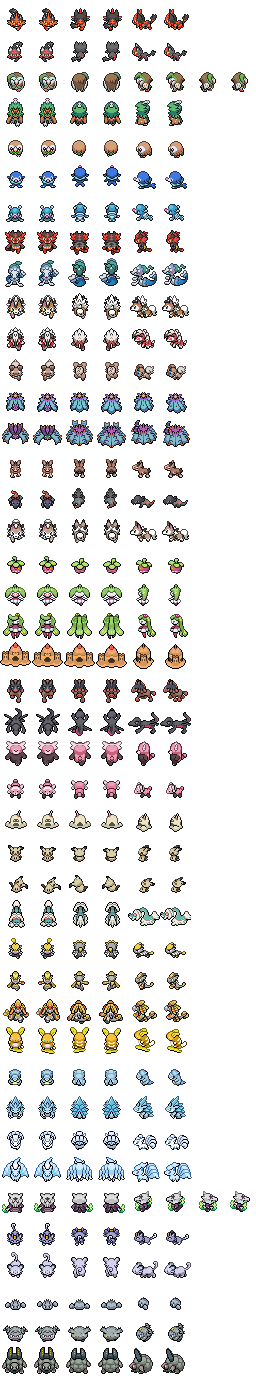
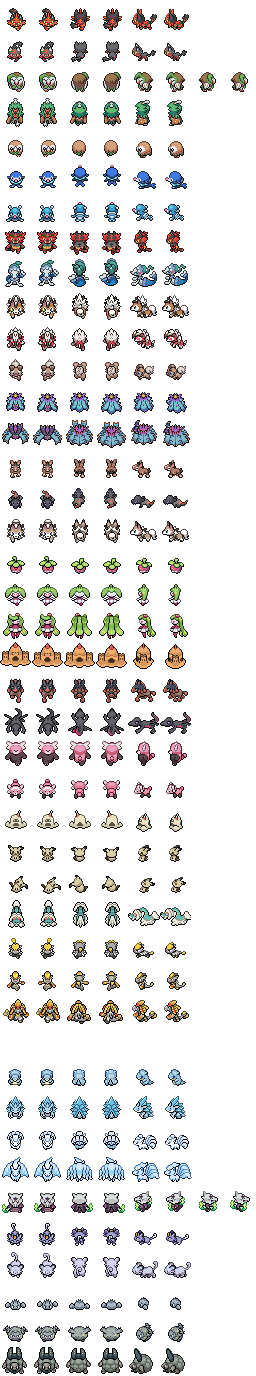
A-Raichu y arreglado bug de storage

diff --git a/src/data/pokemon_graphics/front_pic_anims.h b/src/data/pokemon_graphics/front_pic_anims.h
@@ -278,8 +278,31 @@ static const union AnimCmd sAnim_Raticate_1[] =
 };
 
 #if P_ALOLAN_FORMS
-PLACEHOLDER_ANIM_SINGLE_FRAME(RattataAlolan);
-PLACEHOLDER_ANIM_SINGLE_FRAME(RaticateAlolan);
+static const union AnimCmd sAnim_RattataAlolan_1[] =
+{
+    ANIMCMD_FRAME(1, 11),
+    ANIMCMD_FRAME(0, 11),
+    ANIMCMD_FRAME(1, 11),
+    ANIMCMD_FRAME(0, 1),
+    ANIMCMD_END,
+};
+
+static const union AnimCmd sAnim_RaticateAlolan_1[] =
+{
+    ANIMCMD_FRAME(1, 5),
+    ANIMCMD_FRAME(0, 5),
+    ANIMCMD_FRAME(1, 5),
+    ANIMCMD_FRAME(0, 5),
+    ANIMCMD_FRAME(1, 5),
+    ANIMCMD_FRAME(0, 5),
+    ANIMCMD_FRAME(1, 5),
+    ANIMCMD_FRAME(0, 5),
+    ANIMCMD_FRAME(1, 5),
+    ANIMCMD_FRAME(0, 5),
+    ANIMCMD_FRAME(1, 5),
+    ANIMCMD_FRAME(0, 5),
+    ANIMCMD_END,
+};
 #endif //P_ALOLAN_FORMS
 #endif //P_FAMILY_RATTATA
 
@@ -350,29 +373,6 @@ static const union AnimCmd sAnim_Pikachu_1[] =
     ANIMCMD_END,
 };
 
-#if P_COSPLAY_PIKACHU_FORMS
-PLACEHOLDER_ANIM_SINGLE_FRAME(PikachuCosplay);
-PLACEHOLDER_ANIM_SINGLE_FRAME(PikachuRockStar);
-PLACEHOLDER_ANIM_SINGLE_FRAME(PikachuBelle);
-PLACEHOLDER_ANIM_SINGLE_FRAME(PikachuPopStar);
-PLACEHOLDER_ANIM_SINGLE_FRAME(PikachuPhD);
-PLACEHOLDER_ANIM_SINGLE_FRAME(PikachuLibre);
-#endif //P_COSPLAY_PIKACHU_FORMS
-#if P_CAP_PIKACHU_FORMS
-PLACEHOLDER_ANIM_SINGLE_FRAME(PikachuOriginalCap);
-PLACEHOLDER_ANIM_SINGLE_FRAME(PikachuHoennCap);
-PLACEHOLDER_ANIM_SINGLE_FRAME(PikachuSinnohCap);
-PLACEHOLDER_ANIM_SINGLE_FRAME(PikachuUnovaCap);
-PLACEHOLDER_ANIM_SINGLE_FRAME(PikachuKalosCap);
-PLACEHOLDER_ANIM_SINGLE_FRAME(PikachuAlolaCap);
-PLACEHOLDER_ANIM_SINGLE_FRAME(PikachuPartnerCap);
-PLACEHOLDER_ANIM_SINGLE_FRAME(PikachuWorldCap);
-#endif //P_CAP_PIKACHU_FORMS
-
-#if P_GIGANTAMAX_FORMS
-PLACEHOLDER_ANIM_SINGLE_FRAME(PikachuGigantamax);
-#endif //P_GIGANTAMAX_FORMS
-
 static const union AnimCmd sAnim_Raichu_1[] =
 {
     ANIMCMD_FRAME(0, 15),
@@ -384,7 +384,15 @@ static const union AnimCmd sAnim_Raichu_1[] =
 };
 
 #if P_ALOLAN_FORMS
-PLACEHOLDER_ANIM_SINGLE_FRAME(RaichuAlolan);
+static const union AnimCmd sAnim_RaichuAlolan_1[] =
+{
+    ANIMCMD_FRAME(0, 15),
+    ANIMCMD_FRAME(1, 20),
+    ANIMCMD_FRAME(0, 15),
+    ANIMCMD_FRAME(1, 20),
+    ANIMCMD_FRAME(0, 15),
+    ANIMCMD_END,
+};
 #endif //P_ALOLAN_FORMS
 #endif //P_FAMILY_PIKACHU
 
@@ -866,7 +874,17 @@ static const union AnimCmd sAnim_Primeape_1[] =
 };
 
 #if P_GEN_9_CROSS_EVOS
-PLACEHOLDER_ANIM_SINGLE_FRAME(Annihilape);
+static const union AnimCmd sAnim_Annihilape_1[] =
+{
+    ANIMCMD_FRAME(0, 14),
+    ANIMCMD_FRAME(1, 14),
+    ANIMCMD_FRAME(0, 14),
+    ANIMCMD_FRAME(1, 14),
+    ANIMCMD_FRAME(0, 14),
+    ANIMCMD_FRAME(1, 10),
+    ANIMCMD_FRAME(0, 1),
+    ANIMCMD_END,
+};
 #endif //P_GEN_9_CROSS_EVOS
 #endif //P_FAMILY_MANKEY
 
@@ -10213,27 +10231,6 @@ SINGLE_ANIMATION(Arbok);
 SINGLE_ANIMATION(Pichu);
 #endif //P_GEN_2_CROSS_EVOS
 SINGLE_ANIMATION(Pikachu);
-#if P_COSPLAY_PIKACHU_FORMS
-SINGLE_ANIMATION(PikachuCosplay);
-SINGLE_ANIMATION(PikachuRockStar);
-SINGLE_ANIMATION(PikachuBelle);
-SINGLE_ANIMATION(PikachuPopStar);
-SINGLE_ANIMATION(PikachuPhD);
-SINGLE_ANIMATION(PikachuLibre);
-#endif //P_COSPLAY_PIKACHU_FORMS
-#if P_CAP_PIKACHU_FORMS
-SINGLE_ANIMATION(PikachuOriginalCap);
-SINGLE_ANIMATION(PikachuHoennCap);
-SINGLE_ANIMATION(PikachuSinnohCap);
-SINGLE_ANIMATION(PikachuUnovaCap);
-SINGLE_ANIMATION(PikachuKalosCap);
-SINGLE_ANIMATION(PikachuAlolaCap);
-SINGLE_ANIMATION(PikachuPartnerCap);
-SINGLE_ANIMATION(PikachuWorldCap);
-#endif //P_CAP_PIKACHU_FORMS
-#if P_GIGANTAMAX_FORMS
-SINGLE_ANIMATION(PikachuGigantamax);
-#endif //P_GIGANTAMAX_FORMS
 SINGLE_ANIMATION(Raichu);
 #if P_ALOLAN_FORMS
 SINGLE_ANIMATION(RaichuAlolan);

diff --git a/src/pokemon_storage_system.c b/src/pokemon_storage_system.c
@@ -410,6 +410,7 @@ struct PokemonStorageSystemData
     u8 cursorPalNums[2];
     const u32 *displayMonPalette;
     u32 displayMonPersonality;
+    bool8 displayMonIsShiny;
     u16 displayMonSpecies;
     u16 displayMonItemId;
     bool8 setMosaic;
@@ -3687,7 +3688,7 @@ static void LoadDisplayMonGfx(u16 species, u32 pid)
         LoadSpecialPokePic(sStorage->tileBuffer, species, pid, TRUE);
         CpuFastCopy(sStorage->tileBuffer, sStorage->displayMonTilePtr, MON_PIC_SIZE);
         LoadCompressedPaletteFast(sStorage->displayMonPalette, sStorage->displayMonPalOffset, PLTT_SIZE_4BPP);
-        UniquePaletteByPersonality(sStorage->displayMonPalOffset, species, 0, pid); //Funciona (en primera pantalla de equipo)
+        UniquePaletteByPersonality(sStorage->displayMonPalOffset, species, sStorage->displayMonIsShiny, pid); //*
         CpuFastCopy(&gPlttBufferFaded[sStorage->displayMonPalOffset], &gPlttBufferUnfaded[sStorage->displayMonPalOffset], PLTT_SIZE_4BPP);
         sStorage->displayMonSprite->invisible = FALSE;
     }
@@ -4163,7 +4164,7 @@ static void SetBoxMonDynamicPalette(u8 boxId, u8 position)
         else
         {
             LZ77UnCompWram(palette, &sPaletteSwapBuffer[PLTT_ID(position)]);
-            UniquePaletteBuffered(&sPaletteSwapBuffer[PLTT_ID(position)], species, GetMonData((struct Pokemon *)&gPokemonStoragePtr->boxes[boxId][position], MON_DATA_PERSONALITY), IsMonShiny((struct Pokemon *)&gPokemonStoragePtr->boxes[boxId][position]));
+            UniquePaletteBuffered(&sPaletteSwapBuffer[PLTT_ID(position)], species, GetMonData(mon, MON_DATA_PERSONALITY), IsMonShiny(mon));
         }
     }
     sStorage->boxMonsSprites[position]->oam.paletteNum = ((position / 6) & 1 ? 6 : 0) + (position % 6) + 1;
@@ -6409,6 +6410,7 @@ static void SetDisplayMonData(void *pokemon, u8 mode)
             StringGet_Nickname(sStorage->displayMonName);
             sStorage->displayMonLevel = GetMonData(mon, MON_DATA_LEVEL);
             sStorage->displayMonPersonality = GetMonData(mon, MON_DATA_PERSONALITY);
+            sStorage->displayMonIsShiny = GetMonData(mon, MON_DATA_IS_SHINY);
             sStorage->displayMonPalette = GetMonFrontSpritePal(mon);
             gender = GetMonGender(mon);
             sStorage->displayMonItemId = GetMonData(mon, MON_DATA_HELD_ITEM);
@@ -6436,6 +6438,7 @@ static void SetDisplayMonData(void *pokemon, u8 mode)
             StringGet_Nickname(sStorage->displayMonName);
             sStorage->displayMonLevel = GetLevelFromBoxMonExp(boxMon);
             sStorage->displayMonPersonality = GetBoxMonData(boxMon, MON_DATA_PERSONALITY);
+            sStorage->displayMonIsShiny = GetBoxMonData(boxMon, MON_DATA_IS_SHINY);
             sStorage->displayMonPalette = GetMonSpritePalFromSpeciesAndPersonality(sStorage->displayMonSpecies, isShiny, sStorage->displayMonPersonality); //*
             gender = GetGenderFromSpeciesAndPersonality(sStorage->displayMonSpecies, sStorage->displayMonPersonality);
             sStorage->displayMonItemId = GetBoxMonData(boxMon, MON_DATA_HELD_ITEM);

diff --git a/src/data/pokemon/species_info/gen_1.h b/src/data/pokemon/species_info/gen_1.h
@@ -1191,10 +1191,10 @@ const struct SpeciesInfo gSpeciesInfoGen1[] =
         FRONT_PIC(RattataAlolan, 40, 48),
         .frontPicYOffset = 11,
         .frontAnimFrames = sAnims_RattataAlolan,
-        //.frontAnimId = ANIM_V_SQUISH_AND_BOUNCE,
+        .frontAnimId = ANIM_V_SQUISH_AND_BOUNCE,
         BACK_PIC(RattataAlolan, 64, 56),
         .backPicYOffset = 7,
-        //.backAnimId = BACK_ANIM_NONE,
+        .backAnimId = BACK_ANIM_H_SHAKE,
         PALETTES(RattataAlolan),
         ICON(RattataAlolan, 2),
         FOLLOWER(RattataAlolan, SIZE_32x32, SHADOW_SIZE_M, TRACKS_FOOT)
@@ -1230,10 +1230,10 @@ const struct SpeciesInfo gSpeciesInfoGen1[] =
         FRONT_PIC(RaticateAlolan, 56, 48),
         .frontPicYOffset = 8,
         .frontAnimFrames = sAnims_RaticateAlolan,
-        //.frontAnimId = ANIM_V_SQUISH_AND_BOUNCE,
+        .frontAnimId = ANIM_V_SQUISH_AND_BOUNCE,
         BACK_PIC(RaticateAlolan, 64, 48),
         .backPicYOffset = 8,
-        //.backAnimId = BACK_ANIM_NONE,
+        .backAnimId = BACK_ANIM_H_SHAKE,
         PALETTES(RaticateAlolan),
         ICON(RaticateAlolan, 2),
         FOLLOWER(RaticateAlolan, SIZE_32x32, SHADOW_SIZE_M, TRACKS_FOOT)
@@ -1663,11 +1663,11 @@ const struct SpeciesInfo gSpeciesInfoGen1[] =
         FRONT_PIC(RaichuAlolan, 64, 64),
         .frontPicYOffset = 0,
         .frontAnimFrames = sAnims_RaichuAlolan,
-        //.frontAnimId = ANIM_V_SQUISH_AND_BOUNCE,
+        .frontAnimId = ANIM_ROTATE_TO_SIDES,
         .enemyMonElevation = 4,
         BACK_PIC(RaichuAlolan, 56, 56),
         .backPicYOffset = 6,
-        //.backAnimId = BACK_ANIM_NONE,
+        .backAnimId = BACK_ANIM_SHAKE_FLASH_YELLOW,
         PALETTES(RaichuAlolan),
         ICON(RaichuAlolan, 2),
         FOLLOWER(RaichuAlolan, SIZE_32x32, SHADOW_SIZE_M, TRACKS_FOOT)
@@ -3972,7 +3972,6 @@ const struct SpeciesInfo gSpeciesInfoGen1[] =
         .backAnimId = BACK_ANIM_CONCAVE_ARC_LARGE,
         PALETTES(Primeape),
         ICON(Primeape, 2),
-        FOOTPRINT(Primeape)
         FOLLOWER(Primeape, SIZE_32x32, SHADOW_SIZE_M, TRACKS_FOOT)
         LEARNSETS(Primeape),
         .evolutions = EVOLUTION({EVO_LEVEL_MOVE_TWENTY_TIMES, MOVE_RAGE_FIST, SPECIES_ANNIHILAPE}),
@@ -4016,13 +4015,13 @@ const struct SpeciesInfo gSpeciesInfoGen1[] =
         FRONT_PIC(Annihilape, 64, 64),
         .frontPicYOffset = 0,
         .frontAnimFrames = sAnims_Annihilape,
-        //.frontAnimId = ANIM_V_SQUISH_AND_BOUNCE,
+        .frontAnimId = ANIM_GLOW_PURPLE,
         BACK_PIC(Annihilape, 64, 64),
         .backPicYOffset = 1,
-        //.backAnimId = BACK_ANIM_NONE,
+        .backAnimId = BACK_ANIM_SHAKE_GLOW_BLUE,
         PALETTES(Annihilape),
         ICON(Annihilape, 0),
-        //FOOTPRINT(Annihilape)
+        FOLLOWER(Annihilape, SIZE_32x32, SHADOW_SIZE_M, TRACKS_FOOT)
         LEARNSETS(Annihilape),
     },
 #endif //P_GEN_9_CROSS_EVOS

diff --git a/src/pokemon_animation.c b/src/pokemon_animation.c
@@ -247,7 +247,7 @@ static void (* const sMonAnimFunctions[])(struct Sprite *sprite) =
     [ANIM_V_SLIDE]                           = Anim_VerticalSlide,
     [ANIM_BOUNCE_ROTATE_TO_SIDES]            = Anim_BounceRotateToSides,
     [ANIM_V_JUMPS_H_JUMPS]                   = Anim_VerticalJumpsHorizontalJumps,
-    [ANIM_ROTATE_TO_SIDES]                   = Anim_RotateToSides, // Unused
+    [ANIM_ROTATE_TO_SIDES]                   = Anim_RotateToSides,
     [ANIM_ROTATE_TO_SIDES_TWICE]             = Anim_RotateToSides_Twice,
     [ANIM_GROW_VIBRATE]                      = Anim_GrowVibrate,
     [ANIM_ZIGZAG_FAST]                       = Anim_ZigzagFast,
@@ -276,7 +276,7 @@ static void (* const sMonAnimFunctions[])(struct Sprite *sprite) =
     [ANIM_GLOW_RED]                          = Anim_GlowRed, // Unused
     [ANIM_GLOW_BLUE]                         = Anim_GlowBlue,
     [ANIM_GLOW_YELLOW]                       = Anim_GlowYellow, // Unused
-    [ANIM_GLOW_PURPLE]                       = Anim_GlowPurple, // Unused
+    [ANIM_GLOW_PURPLE]                       = Anim_GlowPurple,
     [ANIM_BACK_AND_LUNGE]                    = Anim_BackAndLunge,
     [ANIM_BACK_FLIP]                         = Anim_BackFlip, // Unused
     [ANIM_FLICKER]                           = Anim_Flicker, // Unused
@@ -294,9 +294,9 @@ static void (* const sMonAnimFunctions[])(struct Sprite *sprite) =
     [ANIM_ROTATE_TO_SIDES_FAST]              = Anim_RotateToSides_Fast, // Unused
     [ANIM_ROTATE_UP_TO_SIDES]                = Anim_RotateUpToSides,
     [ANIM_FLICKER_INCREASING]                = Anim_FlickerIncreasing,
-    [ANIM_TIP_HOP_FORWARD]                   = Anim_TipHopForward, // Unused
+    [ANIM_TIP_HOP_FORWARD]                   = Anim_TipHopForward, //Unused
     [ANIM_PIVOT_SHAKE]                       = Anim_PivotShake, // Unused
-    [ANIM_TIP_AND_SHAKE]                     = Anim_TipAndShake, // Unused
+    [ANIM_TIP_AND_SHAKE]                     = Anim_TipAndShake, //Unused
     [ANIM_VIBRATE_TO_CORNERS]                = Anim_VibrateToCorners, // Unused
     [ANIM_GROW_IN_STAGES]                    = Anim_GrowInStages,
     [ANIM_V_SPRING]                          = Anim_VerticalSpring, // Unused

diff --git a/src/data/graphics/pokemon.h b/src/data/graphics/pokemon.h
@@ -278,6 +278,7 @@ const u8 gMonIcon_QuestionMark[] = INCBIN_U8("graphics/pokemon/question_mark/ico
 #endif //P_FOLLOWERS
 
     const u32 gMonFrontPic_Raichu[] = INCBIN_U32("graphics/pokemon/raichu/anim_front.4bpp.lz");
+    const u32 gMonFrontPic_RaichuF[] = INCBIN_U32("graphics/pokemon/raichu/anim_frontf.4bpp.lz");
     const u32 gMonPalette_Raichu[] = INCBIN_U32("graphics/pokemon/raichu/normal.gbapal.lz");
     const u32 gMonBackPic_Raichu[] = INCBIN_U32("graphics/pokemon/raichu/back.4bpp.lz");
     const u32 gMonShinyPalette_Raichu[] = INCBIN_U32("graphics/pokemon/raichu/shiny.gbapal.lz");
@@ -286,10 +287,8 @@ const u8 gMonIcon_QuestionMark[] = INCBIN_U8("graphics/pokemon/question_mark/ico
     const u32 gObjectEventPic_RaichuF[] = INCBIN_COMP("graphics/pokemon/raichu/followerf.4bpp");
 #endif //P_FOLLOWERS
 
-    const u32 gMonFrontPic_RaichuF[] = INCBIN_U32("graphics/pokemon/raichu/anim_frontf.4bpp.lz");
-
 #if P_ALOLAN_FORMS
-    const u32 gMonFrontPic_RaichuAlolan[] = INCBIN_U32("graphics/pokemon/raichu/alolan/front.4bpp.lz");
+    const u32 gMonFrontPic_RaichuAlolan[] = INCBIN_U32("graphics/pokemon/raichu/alolan/anim_front.4bpp.lz");
     const u32 gMonPalette_RaichuAlolan[] = INCBIN_U32("graphics/pokemon/raichu/alolan/normal.gbapal.lz");
     const u32 gMonBackPic_RaichuAlolan[] = INCBIN_U32("graphics/pokemon/raichu/alolan/back.4bpp.lz");
     const u32 gMonShinyPalette_RaichuAlolan[] = INCBIN_U32("graphics/pokemon/raichu/alolan/shiny.gbapal.lz");

diff --git a/include/pokemon_storage_system.h b/include/pokemon_storage_system.h
@@ -7,15 +7,6 @@
 #define IN_BOX_COUNT            (IN_BOX_ROWS * IN_BOX_COLUMNS)
 #define BOX_NAME_LENGTH         8
 
-/*
-            COLUMNS
-ROWS        0   1   2   3   4   5
-            6   7   8   9   10  11
-            12  13  14  15  16  17
-            18  19  20  21  22  23
-            24  25  26  27  28  29
-*/
-
 struct PokemonStorage
 {
     /*0x0000*/ u8 currentBox;

diff --git a/desarrollo/sprites.md b/desarrollo/sprites.md
@@ -19,8 +19,8 @@ Lista Pokémon:
 * Pidgeot (paleta shiny) X
 * Rattata (paleta shiny) X
 * Raticate (paleta shiny) X
-* A-Rattata (sprite con animación y paletas) X Comprobar animación
-* A-Raticate (sprite con animación y paleta shiny) X Comprobar animación
+* A-Rattata (sprite con animación y paletas) X
+* A-Raticate (sprite con animación y paleta shiny) X
 * Spearow (paleta shiny) X
 * Fearow (paleta shiny) X
 * Ekans X
@@ -28,7 +28,7 @@ Lista Pokémon:
 * Pichu (paleta shiny) X
 * Pikachu (paleta shiny, female follower) X
 * Raichu (paleta shiny, female follower) X
-* A-Raichu
+* A-Raichu (paleta shiny) X
 * Sandshrew
 * Sandslash
 * A-Sandshrew
@@ -70,7 +70,7 @@ Lista Pokémon:
 * Golduck
 * Mankey
 * Primeape
-* Annihilape
+* Annihilape X
 * Growlithe
 * Arcanine
 * H-Growlithe
